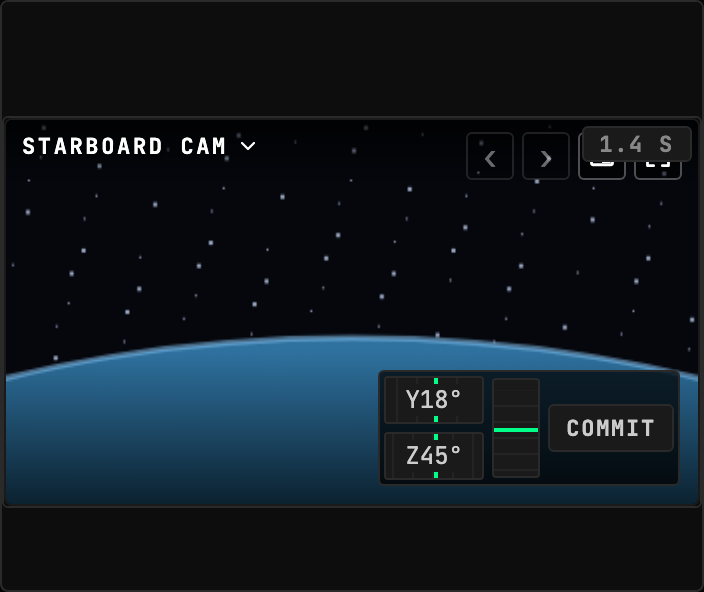
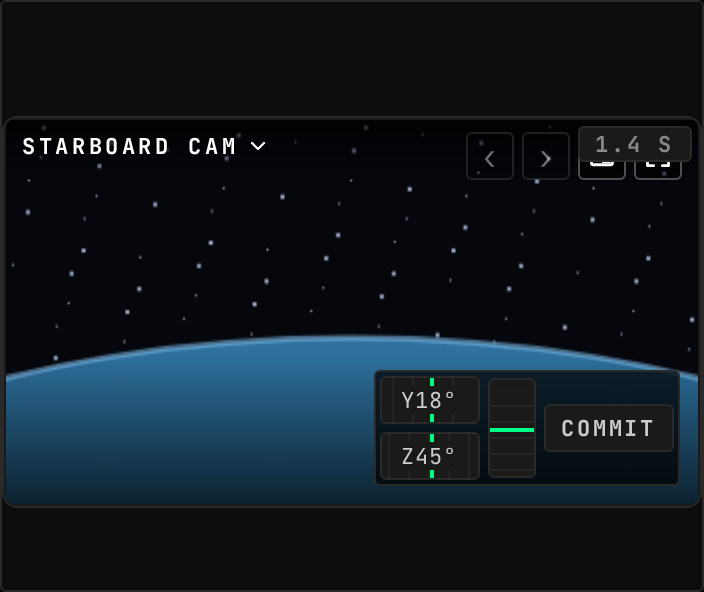
fix(kerbcast): the setpoint cluster takes the kit's regular box radius
Built against gonogo 8d4749fc (contract 18.12, API 3.0.0), where Box radii are regular, floating or pill; page regenerated on Linux; 214 client and 44 mod tests green, published dependencies load.

diff --git a/uplinks/kerbcast/client/src/__generated__/command-map.ts b/uplinks/kerbcast/client/src/__generated__/command-map.ts
@@ -69,6 +69,21 @@ export interface GeneratedCommandReplyMap {
 }
 
 /**
+ * The same mapping as a RUNTIME value: command id -> the NAME of the type
+ * its dispatch resolves with, spelled exactly as the interface above spells
+ * it, `CommandResultOf<T>` envelope included.
+ *
+ * An interface is erased before a client runs, and a command reply arrives
+ * carrying a requestId and nothing else, so the command that was dispatched
+ * is the only route back to a type. Anything that has to treat a reply by
+ * its declared shape, unit hydration first among them, reads this.
+ */
+export const GENERATED_COMMAND_REPLY_TYPES = {
+  "kerbcast.setFieldOfView": "CommandResult",
+  "kerbcast.setPan": "CommandResult",
+} as const satisfies Record<string, string>;
+
+/**
  * What the delay rail needs to know about a command, as DATA: a client asks
  * this table rather than carrying a list of ids it recognises.
  */

diff --git a/uplinks/kerbcast/client/src/CameraSetpoint/CameraSetpointSurface.tsx b/uplinks/kerbcast/client/src/CameraSetpoint/CameraSetpointSurface.tsx
@@ -314,7 +314,7 @@ export const CameraSetpointSurface = forwardRef<
     <>
       <Box
         pad="xs"
-        radius="sm"
+        radius="regular"
         bordered
         style={CLUSTER_STYLE}
         aria-label="Delayed camera control"

diff --git a/uplinks/kerbcast/client/README.md b/uplinks/kerbcast/client/README.md
@@ -10,7 +10,7 @@ Live in-flight camera views from Hullcam VDS parts, fed by the kerbcast sidecar.
 | Uplink id | `kerbcast` |
 | Version | `0.0.1` |
 | Wraps | kerbcast 1.8.1 (manual) |
-| Built against | contract 17.0, api 2.0.0, ui-kit 0.1.0 |
+| Built against | contract 18.12, api 3.0.0, ui-kit 0.1.0 |
 
 ## Wire
 
